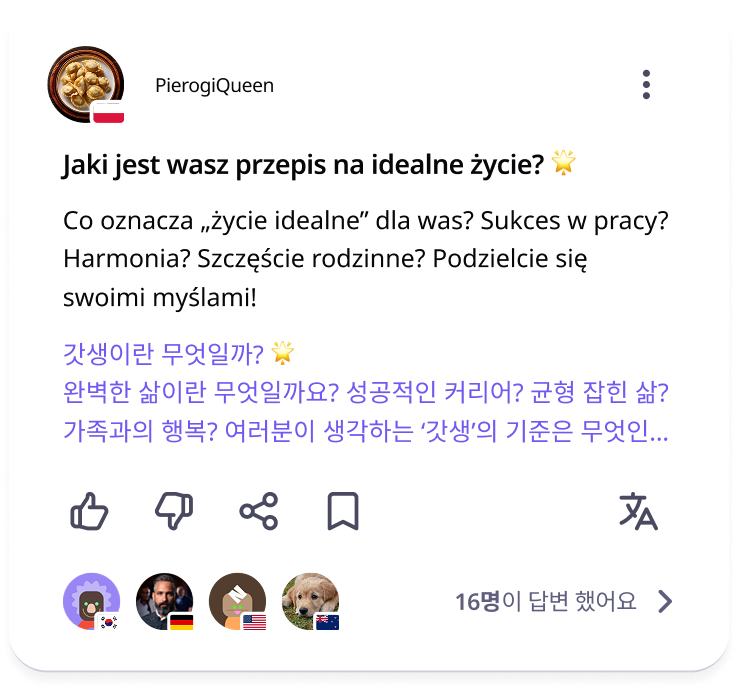
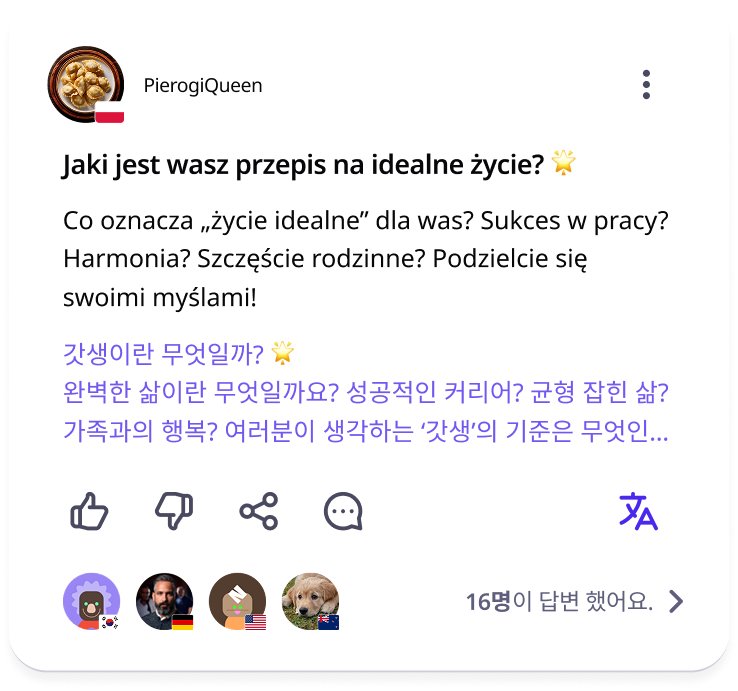
섹션5완료료

diff --git a/src/components/Section05.jsx b/src/components/Section05.jsx
@@ -1,13 +1,13 @@
-import React from "react";
-import Headline from "./Headline";
 import styled from "styled-components";
 import { motion } from "framer-motion";
 
+import Headline from "./Headline";
 import S05BackgroundImg from "../assets/images/S05_background_img.png";
-import FeedImage from "../assets/images/S05_feed_before.png";
-import TranslateIconImg from "../assets/images/S05_translation_icon.png";
+import FeedBefore from "../assets/images/S05_feed_before.png";
+import FeedAfter from "../assets/images/S05_feed_after.png";
+import TranslateIconPurpleImg from "../assets/images/S05_translation_icon_purple.png"; // 보라색 아이콘 사용
 
-const Section05Wrapper = styled.div`
+const SectionWrapper = styled.div`
   background-image: url(${S05BackgroundImg});
   background-size: cover;
   background-position: center;
@@ -16,51 +16,83 @@ const Section05Wrapper = styled.div`
   display: flex;
   flex-direction: column;
   align-items: center;
-  justify-content: center;
-  text-align: center;
+  position: relative;
+`;
+
+const ImageContainer = styled.div`
+  margin-top: 25px;
+  width: 85%;
+  max-width: 650px;
+  position: relative;
+  min-height: 500px;
+`;
+
+const FeedImage = styled(motion.img)`
+  width: 100%;
+  height: auto;
+  position: absolute;
+  top: 0;
+  left: 0;
+  opacity: 1;
 `;
 
 const TranslationIconWrapper = styled(motion.div)`
   width: 50px;
   height: 50px;
-  /* background-image: url("src/assets/images/S05_translation_icon.png");
-  background-size: contain;
-  background-repeat: no-repeat; */
+  position: absolute;
+  bottom: 150px;
+  right: 10%;
+  transform: translateY(30%);
+  z-index: 10;
 `;
 
 const TranslateIcon = styled.img`
   width: 100%;
 `;
 
-const FeedContainer = styled.div`
-  width: 720px;
-  display: flex;
-  justify-content: center;
-  align-items: center;
-  margin-top: 55px;
-`;
-
 const Section05 = () => {
   return (
-    <Section05Wrapper>
+    <SectionWrapper>
       <Headline
-        title="AI 번역기술로 더 나은 소통을 경험하세요"
+        title="AI 번역 기술로 더 나은 소통을 경험하세요"
         title_width="480px"
         description="AI 기술을 활용한 맥락 기반 번역으로 언어의 장벽 뒤에 가려졌던 궁금증을 풀 수 있습니다."
         description_width="365px"
       />
-      <TranslationIconWrapper
-        // 요소가 50% 이상 보이면 애니메이션 시작, 한 번만 실행
-        whileInView={{ scale: 3 }}
-        viewport={{ amount: 0.5 }}
-        transition={{ duration: 0.5 }}
-      >
-        <TranslateIcon src={TranslateIconImg} alt="Translate" />
-      </TranslationIconWrapper>
-      <FeedContainer>
-        <img src={FeedImage} alt="Feed Before" />
-      </FeedContainer>
-    </Section05Wrapper>
+
+      <ImageContainer>
+        {/* 번역 아이콘 애니메이션 (처음부터 보라색) */}
+        <TranslationIconWrapper
+          initial={{ scale: 1, opacity: 1 }} // filter 제거
+          whileInView={{
+            scale: [1, 10, 1],
+            opacity: [1, 1, 0],
+          }}
+          transition={{ duration: 1.4 }}
+          viewport={{ amount: 0.5 }}
+        >
+          <TranslateIcon src={TranslateIconPurpleImg} alt="Translate" />
+        </TranslationIconWrapper>
+
+        {/* Before → After 이미지 변경 (아이콘 애니메이션 이후 변경) */}
+        <FeedImage
+          src={FeedBefore}
+          alt="Feed Before"
+          initial={{ opacity: 1 }}
+          whileInView={{ opacity: 0 }}
+          transition={{ duration: 0.8, delay: 1.2 }}
+          viewport={{ amount: 0.5 }}
+        />
+        <FeedImage
+          src={FeedAfter}
+          alt="Feed After"
+          initial={{ opacity: 0 }}
+          whileInView={{ opacity: 1 }}
+          transition={{ duration: 0.8, delay: 1.2 }}
+          viewport={{ amount: 0.5 }}
+        />
+      </ImageContainer>
+    </SectionWrapper>
   );
 };
 

diff --git a/src/components/Section06.jsx b/src/components/Section06.jsx
@@ -1,4 +1,3 @@
-import React from "react";
 import AICard from "./AICard";
 import Headline from "./Headline";
 import styled from "styled-components";
